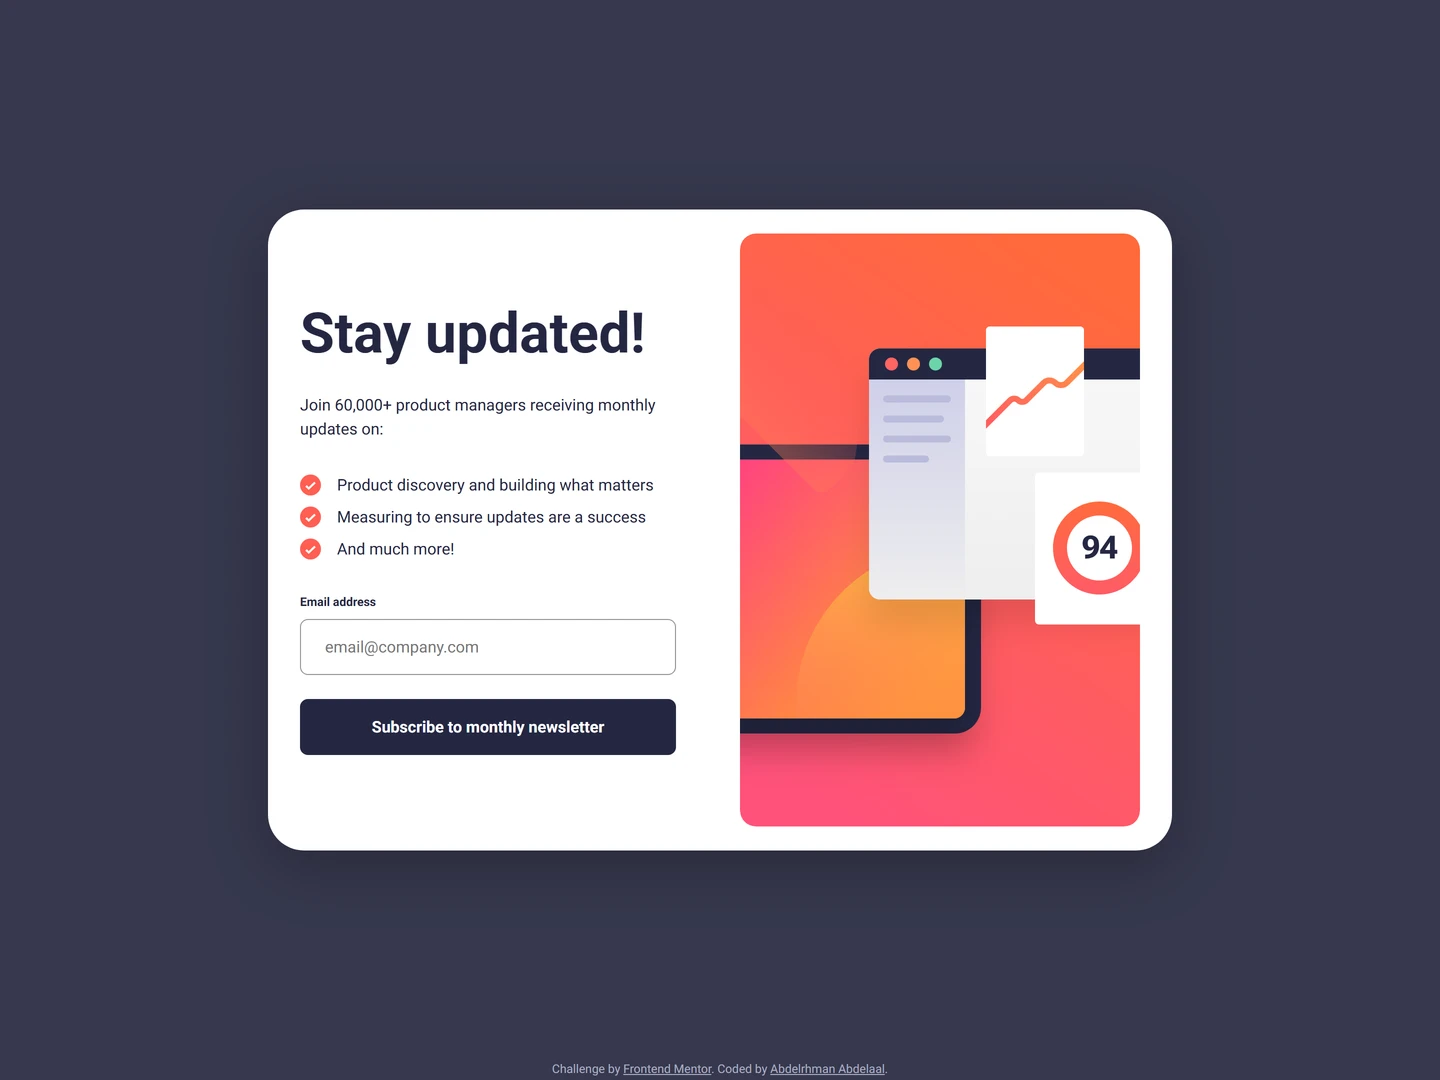
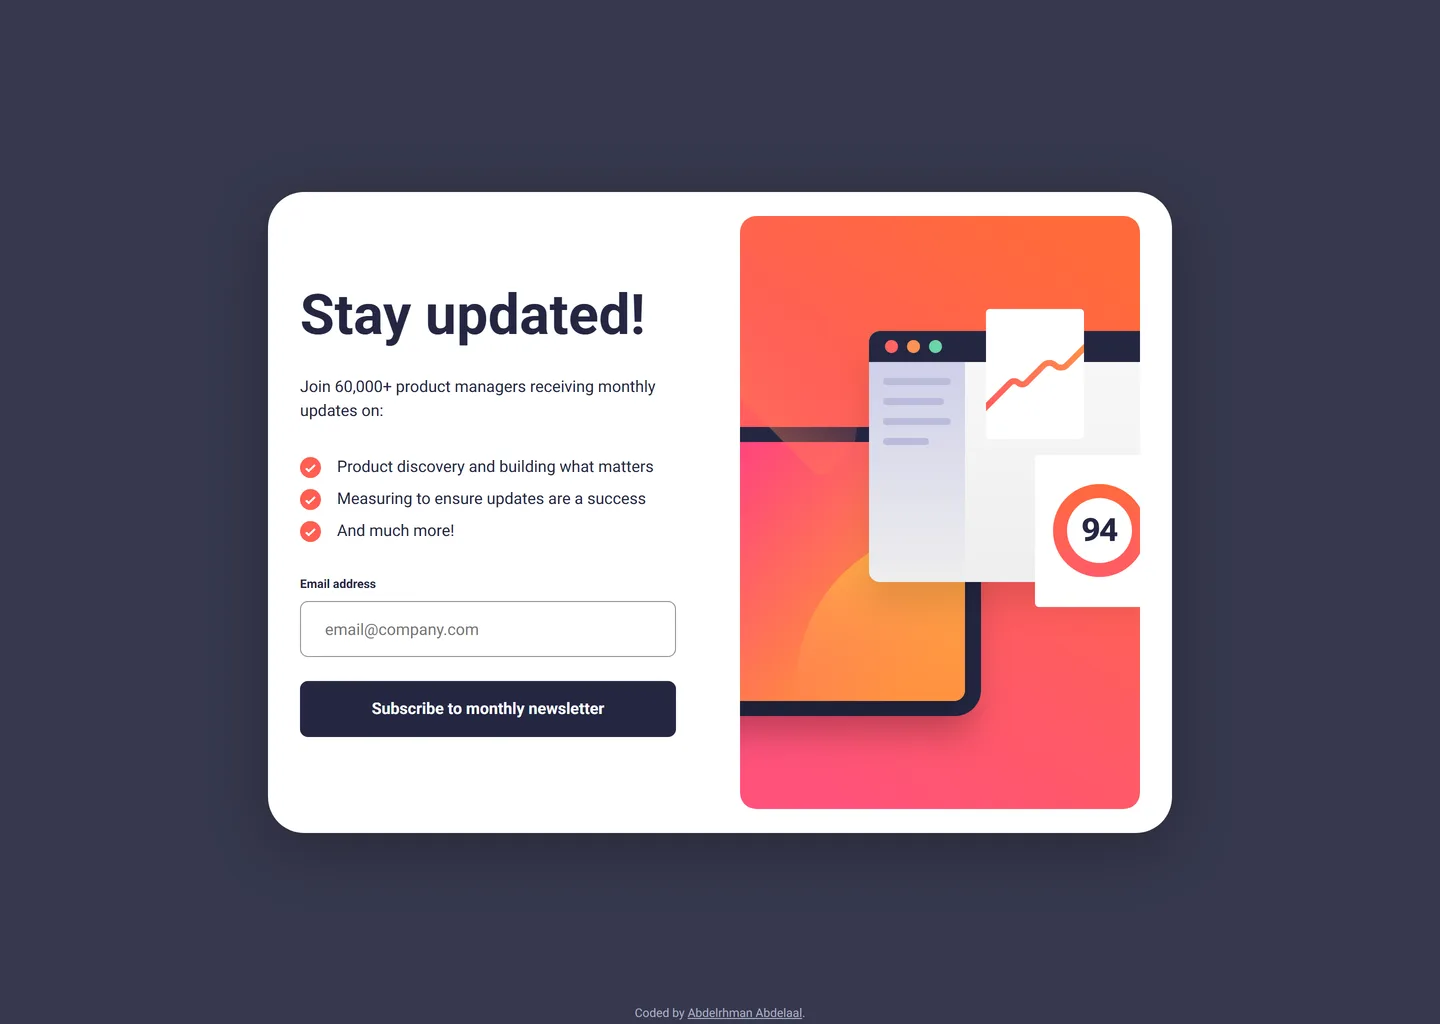
fix: update author links and remove obsolete mirror URL from README

diff --git a/src/app/layout.tsx b/src/app/layout.tsx
@@ -52,16 +52,7 @@ export default function RootLayout({
         {children}
         <footer className="absolute inset-x-0 bottom-0 px-4 pb-0.5 text-center text-label text-muted sm:text-muted-inverse">
           <p>
-            Challenge by{" "}
-            <a
-              className="underline sm:v-focus-ring-inverse"
-              href="https://www.frontendmentor.io?ref=challenge"
-              target="_blank"
-              rel="noopener noreferrer"
-            >
-              Frontend Mentor
-            </a>
-            . Coded by{" "}
+            Coded by{" "}
             <a
               className="underline sm:v-focus-ring-inverse"
               href="https://www.linkedin.com/in/abdelrhman-vanta/"

diff --git a/README.md b/README.md
@@ -22,7 +22,6 @@ This is a solution to the [Newsletter sign-up form with success message challeng
 
 - Solution URL: [GitHub](https://github.com/MrBlackvanta/newsletter-sign-up-with-success-message)
 - Live Site URL: [Cloudflare](https://newsletter-sign-up-with-success-message.abdelrhman-ahmed8881.workers.dev)
-- Mirror: [Netlify](https://vanta-newsletter-sign-up-with-success.netlify.app)
 
 ## My process
 
@@ -117,6 +116,6 @@ Other notes:
 
 ## Author
 
-- UpWork - [Abdelrhman Abdelaal](https://upwork.com/freelancers/~01f0a9479696b61f49)
+- UpWork - [Abdelrhman Abdelaal](https://www.upwork.com/freelancers/mrblackvanta)
 - Frontend Mentor - [@MrBlackvanta](https://www.frontendmentor.io/profile/MrBlackvanta)
 - LinkedIn - [Abdelrhman Abdelaal](https://www.linkedin.com/in/abdelrhman-vanta/)
